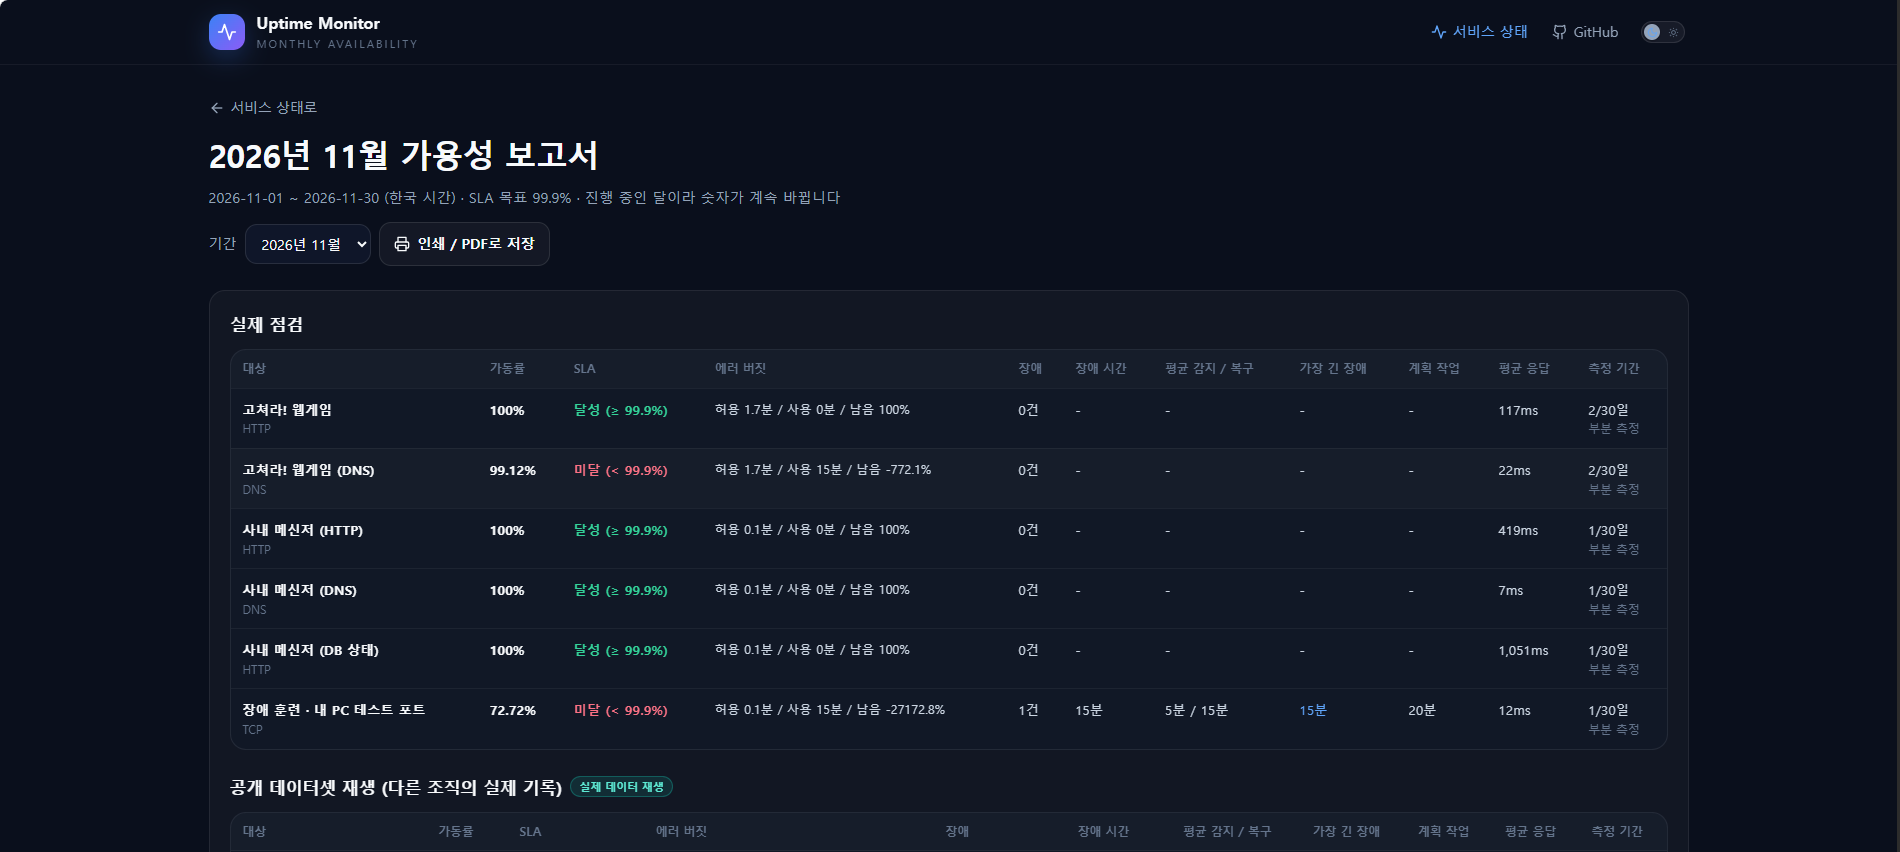
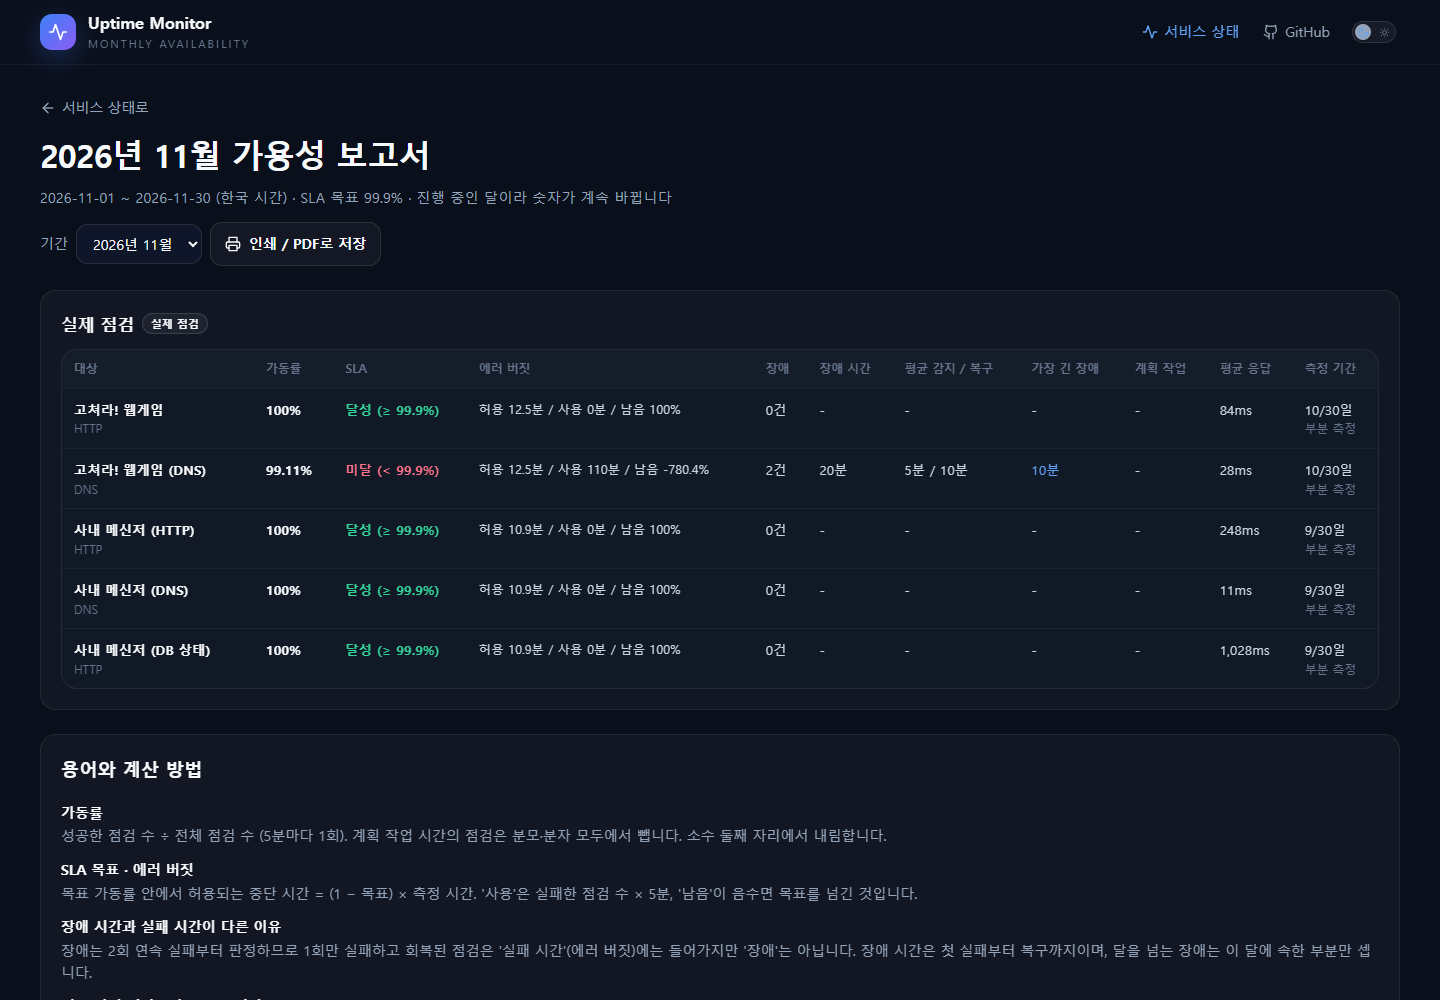
docs(screenshots): README 스크린샷을 새 화면으로 교체 — 14단계 완료
- 2026-11-20 라이브 화면 8장: 대시보드(어두운·밝은·휴대폰 390px), 서비스 상세(Keychats), 서비스 점검 카드,
  서비스 추가 팝업(빈 입력칸), 운영 지표 확대 팝업, 월간 보고서 (팝업은 열기만, 요청은 보내지 않음)
- 옛 status-dark/light(정리 전 상태 페이지)·detail-replay(삭제된 재생 기능) 삭제, 장애 #41 훈련 화면 2장은 유지
- README 화면 절·소개 줄, reviewer-guide 촬영 기준, CLAUDE.md 14단계 완료

diff --git a/README.md b/README.md
@@ -11,7 +11,7 @@
 > 화면에는 **실제로 운영 중인 서비스의 실제 점검 기록만** 있습니다: 내가 운영하는 사이트(고쳐라!)와 팀이 만든 채팅(Keychats, 화면 이름 "사내 메신저").
 > 2026-11-19까지는 공개 데이터셋 재생·에이전트 시뮬레이터 데이터를 출처 표시와 함께 섞어 보여 줬지만, 방침을 바꿔 배포 DB에서 모두 지웠습니다([가짜 데이터 정리](#실제-데이터와-가짜-데이터)).
 
-> **서비스 묶음과 대시보드 (2026-11-19~20, 14단계):** 점검(HTTP·DNS·DB 상태)을 서비스(고쳐라!·Keychats) 단위로 묶었습니다(마이그레이션 0015). 첫 화면은 서비스 단위 대시보드로 바꾸고, 서비스 상세 화면을 더했으며, 점검별 카드·장애 이력·운영 근거는 각각 별도 페이지로 옮겼습니다. 0015 원격 적용 → 배포 → 라이브 확인까지 했습니다. 아래 스크린샷은 아직 이전 화면입니다.
+> **서비스 묶음과 대시보드 (2026-11-19~20, 14단계):** 점검(HTTP·DNS·DB 상태)을 서비스(고쳐라!·Keychats) 단위로 묶었습니다(마이그레이션 0015). 첫 화면은 서비스 단위 대시보드로 바꾸고, 서비스 상세 화면을 더했으며, 점검별 카드·장애 이력·운영 근거는 각각 별도 페이지로 옮겼습니다. 0015 원격 적용 → 배포 → 라이브 확인까지 했습니다. 아래 스크린샷은 새 화면입니다(2026-11-20).
 >
 > **문서 기준 (2026-11-19):** 원격 D1에서 가짜 데이터를 지웠고(백업 후 삭제, 전후 건수 대조), 재생 실행 코드·화면의 재생·데모 표시·seed를 정리해 같은 날 배포했습니다. 배포는 커밋 내용만 담은 깨끗한 폴더에서 했습니다(커밋하지 않은 작업 파일이 올라가지 않게). 라이브에서 `/api/status`의 대상 5개가 모두 `real`이고 재생 필드가 없음, 월간 보고서 묶음이 `real` 하나, 삭제한 `/api/incidents/41`이 404, 데스크톱 상태 페이지에 콘솔 오류가 없음을 확인했습니다. 이 정리 뒤의 CI 실행과 375px 모바일 화면은 확인하지 못했습니다.
 
@@ -33,15 +33,31 @@
 
 ## 화면
 
-| 상태 페이지 (어두운 화면, 기본) | 상태 페이지 (밝은 화면) |
+라이브 사이트의 실제 점검 기록으로 찍었습니다 (2026-11-20, 1440px · 휴대폰은 390px).
+
+| 대시보드 (어두운 화면, 기본) | 대시보드 (밝은 화면) |
 |---|---|
-| ![상태 페이지, 어두운 화면](docs/screenshots/status-dark.png) | ![상태 페이지, 밝은 화면](docs/screenshots/status-light.png) |
+| ![대시보드, 어두운 화면: 요약 3칸, 서비스 줄, 최근 알림, 운영 지표](docs/screenshots/dashboard-dark.png) | ![대시보드, 밝은 화면](docs/screenshots/dashboard-light.png) |
+
+| 서비스 상세 (Keychats) | 서비스 페이지: 점검별 카드 |
+|---|---|
+| ![서비스 상세: 지표 4칸, 점검별 24시간 응답 선·15분 성공/실패 칸·30일 막대](docs/screenshots/service-detail.png) | ![서비스 페이지: 점검 5개 카드와 30일 막대](docs/screenshots/services.png) |
+
+| 서비스 추가 팝업 (빈 입력칸) | 운영 지표 확대 팝업 |
+|---|---|
+| ![서비스 추가 팝업: 주소·상태 확인 주소·운영자 동의·관리자 토큰](docs/screenshots/add-service.png) | ![운영 지표 확대: 서비스별 일 가동률](docs/screenshots/metric-zoom.png) |
+
+| 휴대폰 (390px) | 월간 가용성 보고서 |
+|---|---|
+| ![휴대폰 화면의 대시보드](docs/screenshots/dashboard-mobile.png) | ![2026년 11월 가용성 보고서: 대상별 가동률·SLA·에러 버짓](docs/screenshots/report-monthly.png) |
+
+월간 보고서의 고쳐라! DNS '미달'(99.11%)은 실제 기록입니다(DNS 조회 오류 장애 2건, 각 10분 — 원인은 아직 확인하지 않음).
+
+**장애 훈련 당시 화면 (2026-11-12):** 아래 두 장은 [장애 훈련](#장애-훈련-기록) 기록입니다. 훈련 대상은 실제 서비스가 아니라서 지금 DB·화면에서는 지웠고, 이 화면과 PDF로만 남아 있습니다.
 
 | 장애 상세: 요약 지표와 타임라인 | 장애 상세: 사후 보고서 |
 |---|---|
 | ![장애 #41 요약 지표와 타임라인](docs/screenshots/incident-41-timeline.png) | ![장애 #41 사후 보고서](docs/screenshots/incident-41-report.png) |
-
-**이 스크린샷은 가짜 데이터 정리와 대시보드 새 디자인(2026-11-19) 전 화면입니다.** 상태 페이지 두 장(2026-11-13)에는 지금은 지운 재생·시뮬레이터 카드가 보이고, 장애 #41 두 장(2026-11-12)은 [장애 훈련](#장애-훈련-기록) 당시 기록입니다. 정리 후 라이브 화면으로 다시 찍어 바꿀 예정입니다.
 
 ## 무엇을 하나
 

diff --git a/CLAUDE.md b/CLAUDE.md
@@ -104,7 +104,7 @@
      (테스트 자료는 test/fixtures, 평가용 파서는 scripts/evaluate-rules/datasets.mjs로 이전) · C4 문서  ← 완료(커밋 전)
    - C5 테스트·배포·라이브 확인  ← 완료 (2026-11-19, 브랜치 chore/real-services-only, 깨끗한 worktree에서 배포. main 병합·푸시 완료)
    - 다음: 우리 실제 서비스 추가 + 서비스 묶음 모델(0015 services, monitors.service_id) → 14단계
-14. 서비스 묶음 구조 + 대시보드 새 디자인  ← 진행 중 (S1~S4 완료·배포, main 병합 b4d6438·5aaaa22·db4295c, Notion B-14)
+14. 서비스 묶음 구조 + 대시보드 새 디자인  ← 완료 (S1~S4 완료·배포, main 병합 b4d6438·5aaaa22·db4295c, 스크린샷 교체 2026-11-20, Notion B-14)
    - S1 0015(services·monitors.service_id·service_daily_stats), 회차 기준 서비스 가동률·상태 판정 순수 함수(src/service-status.js),
      Cron 서비스 집계, GET /api/services·/api/services/:key  ← 완료 (dc2c86c, 0015 원격 적용 → 배포·라이브 확인)
      서비스 가동률 = 묶인 점검이 모두 성공한 5분 회차의 비율. 점검은 id가 아니라 주소로 연결(로컬·원격 id가 다름).
@@ -118,7 +118,7 @@
      src/service-admin.js(주소 검사·서비스 키·점검 목록 순수 함수), POST /api/admin/services/preview·/api/admin/services,
      PATCH /api/admin/services/:key(끄기·다시 켜기), 대시보드 [+ 서비스 추가] 팝업(토큰은 저장하지 않고 닫을 때 지움).
      관리자 토큰 + 운영자 동의 필수, 공개 https 도메인만, 켜진 서비스 10개까지. 실제 서비스 추가는 사용자가 직접 함
-   - 남음: README 스크린샷 교체(새 화면으로)
+   - README 스크린샷 교체  ← 완료 (2026-11-20, 라이브 화면 8장. 옛 status-dark/light·detail-replay 삭제, 장애 #41 훈련 화면은 유지)
 15. 오래 가는 장애 메일 알림  ← 완료 (2026-11-20, 85e15de → main 병합 39454a7, Notion B-15)
    - 0016 service_escalations, src/escalation.js(판단·문구 순수 함수), escalation-run.js(Cron, 보낸 뒤에 기록 → 실패하면 다음 회차 재시도),
      channels/email.js(Resend), POST /api/admin/alerts/test(시험 메일). 서비스 단위 15분 1통 + 복구 1통, 반복 없음

diff --git a/docs/portfolio/reviewer-guide.md b/docs/portfolio/reviewer-guide.md
@@ -5,7 +5,7 @@
 ## 기준 시점 (먼저 읽어 주세요)
 
 - 기준: **2026-11-19**. 이날 배포 DB에서 가짜 데이터(공개 데이터셋 재생·시뮬레이터·장애 훈련 기록)를 지우고, 코드·화면·문서를 정리했습니다. 이 정리의 배포·라이브 확인 결과는 README 맨 위 "문서 기준"을 보세요.
-- `docs/screenshots/`의 이미지는 모두 **정리 전 화면**입니다(상태 페이지 2026-11-13, 장애 #41 2026-11-12). 지금은 지운 재생·시뮬레이터 카드가 보입니다.
+- `docs/screenshots/`: 대시보드·서비스 상세·서비스 카드·팝업·휴대폰·월간 보고서는 **2026-11-20 라이브 화면**(실제 기록)입니다. 장애 #41 두 장만 2026-11-12 훈련 당시 화면입니다(훈련 대상은 지금 DB에서 지움).
 - 테스트 수: JS 455개·Python 22개(2026-11-20 로컬 확인, 14단계 서비스 묶음·대시보드·서비스 상세·서비스 추가, 15단계 장애 메일 포함). [이력서 문장](resume-lines.md)의 수치도 이 기준으로 맞췄습니다.
 - GitHub `main` 링크는 현재 푸시된 코드를 가리킵니다.
 
